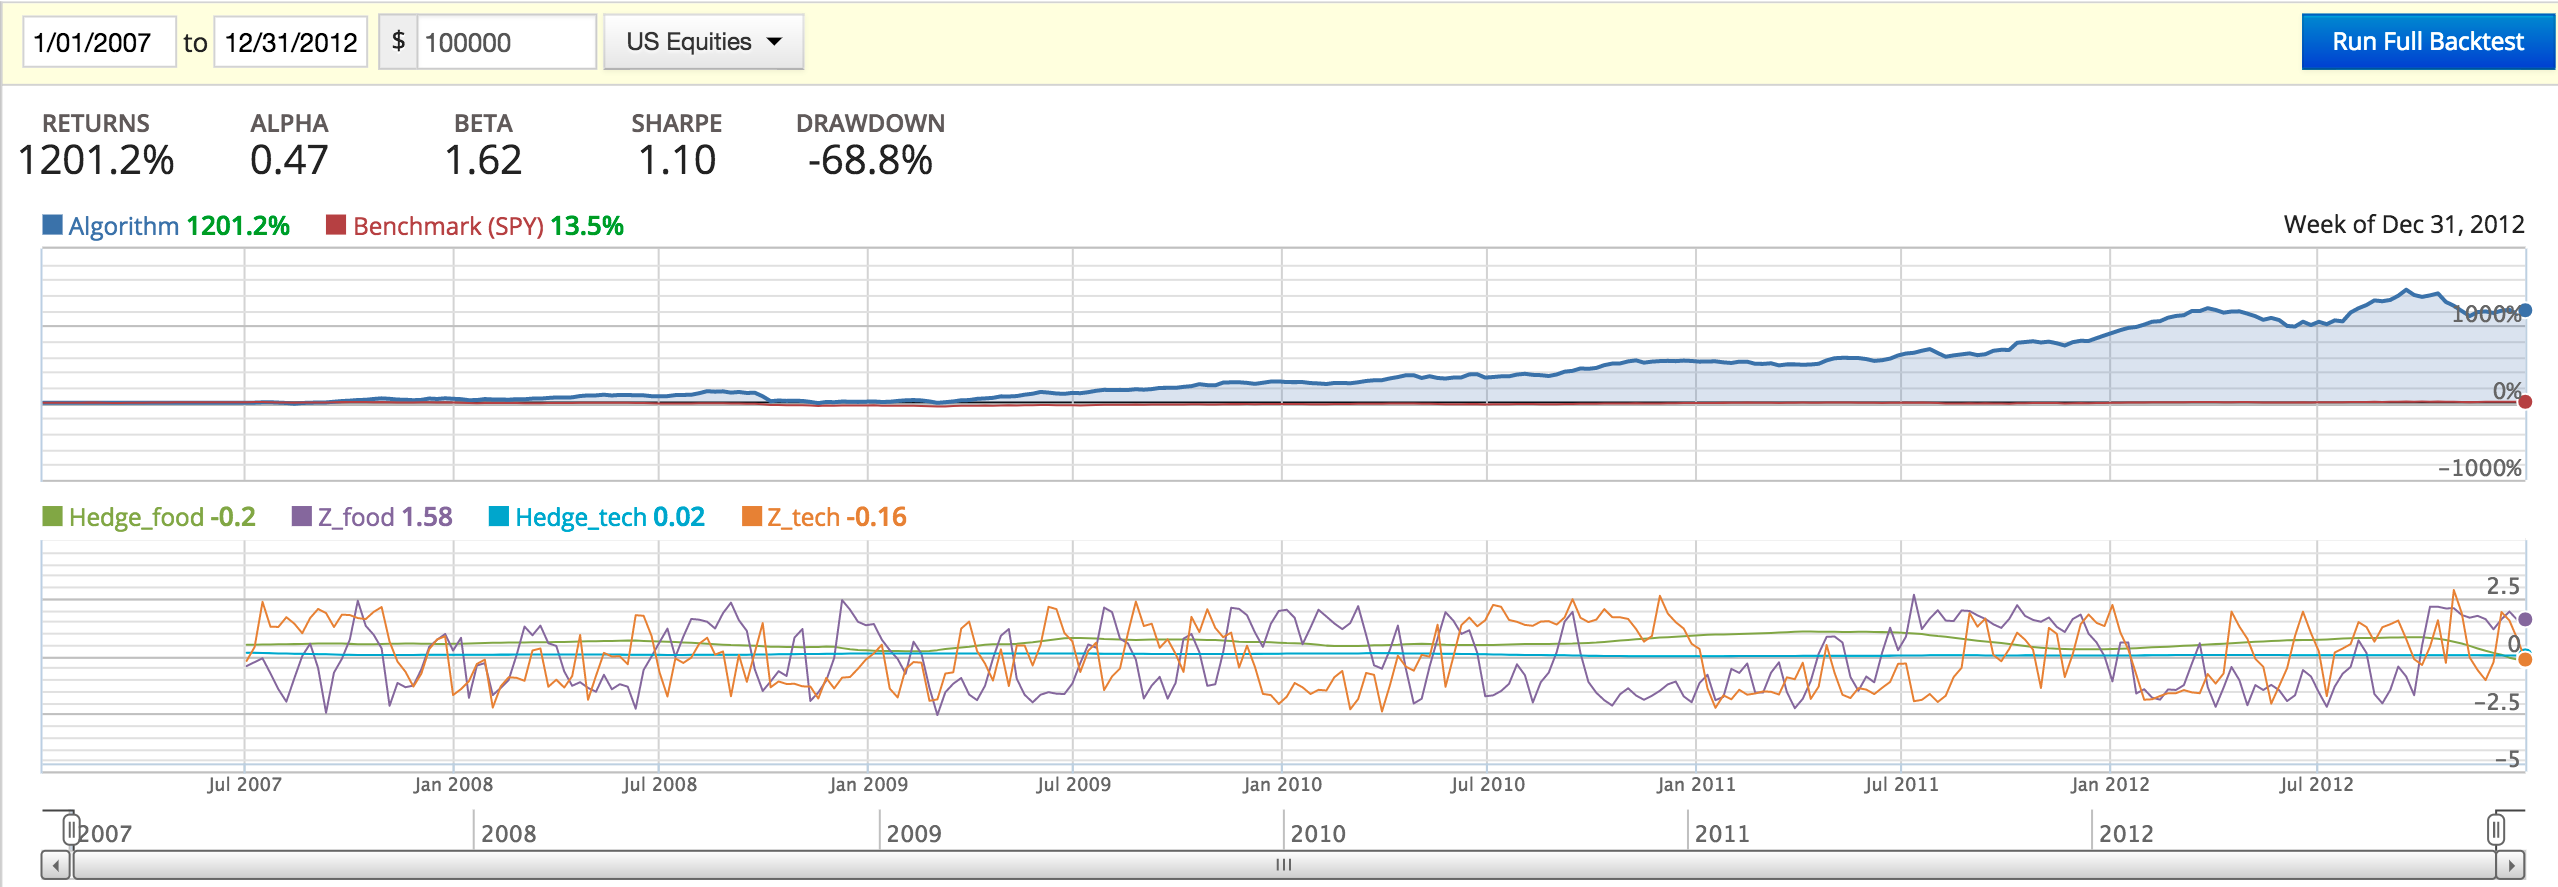
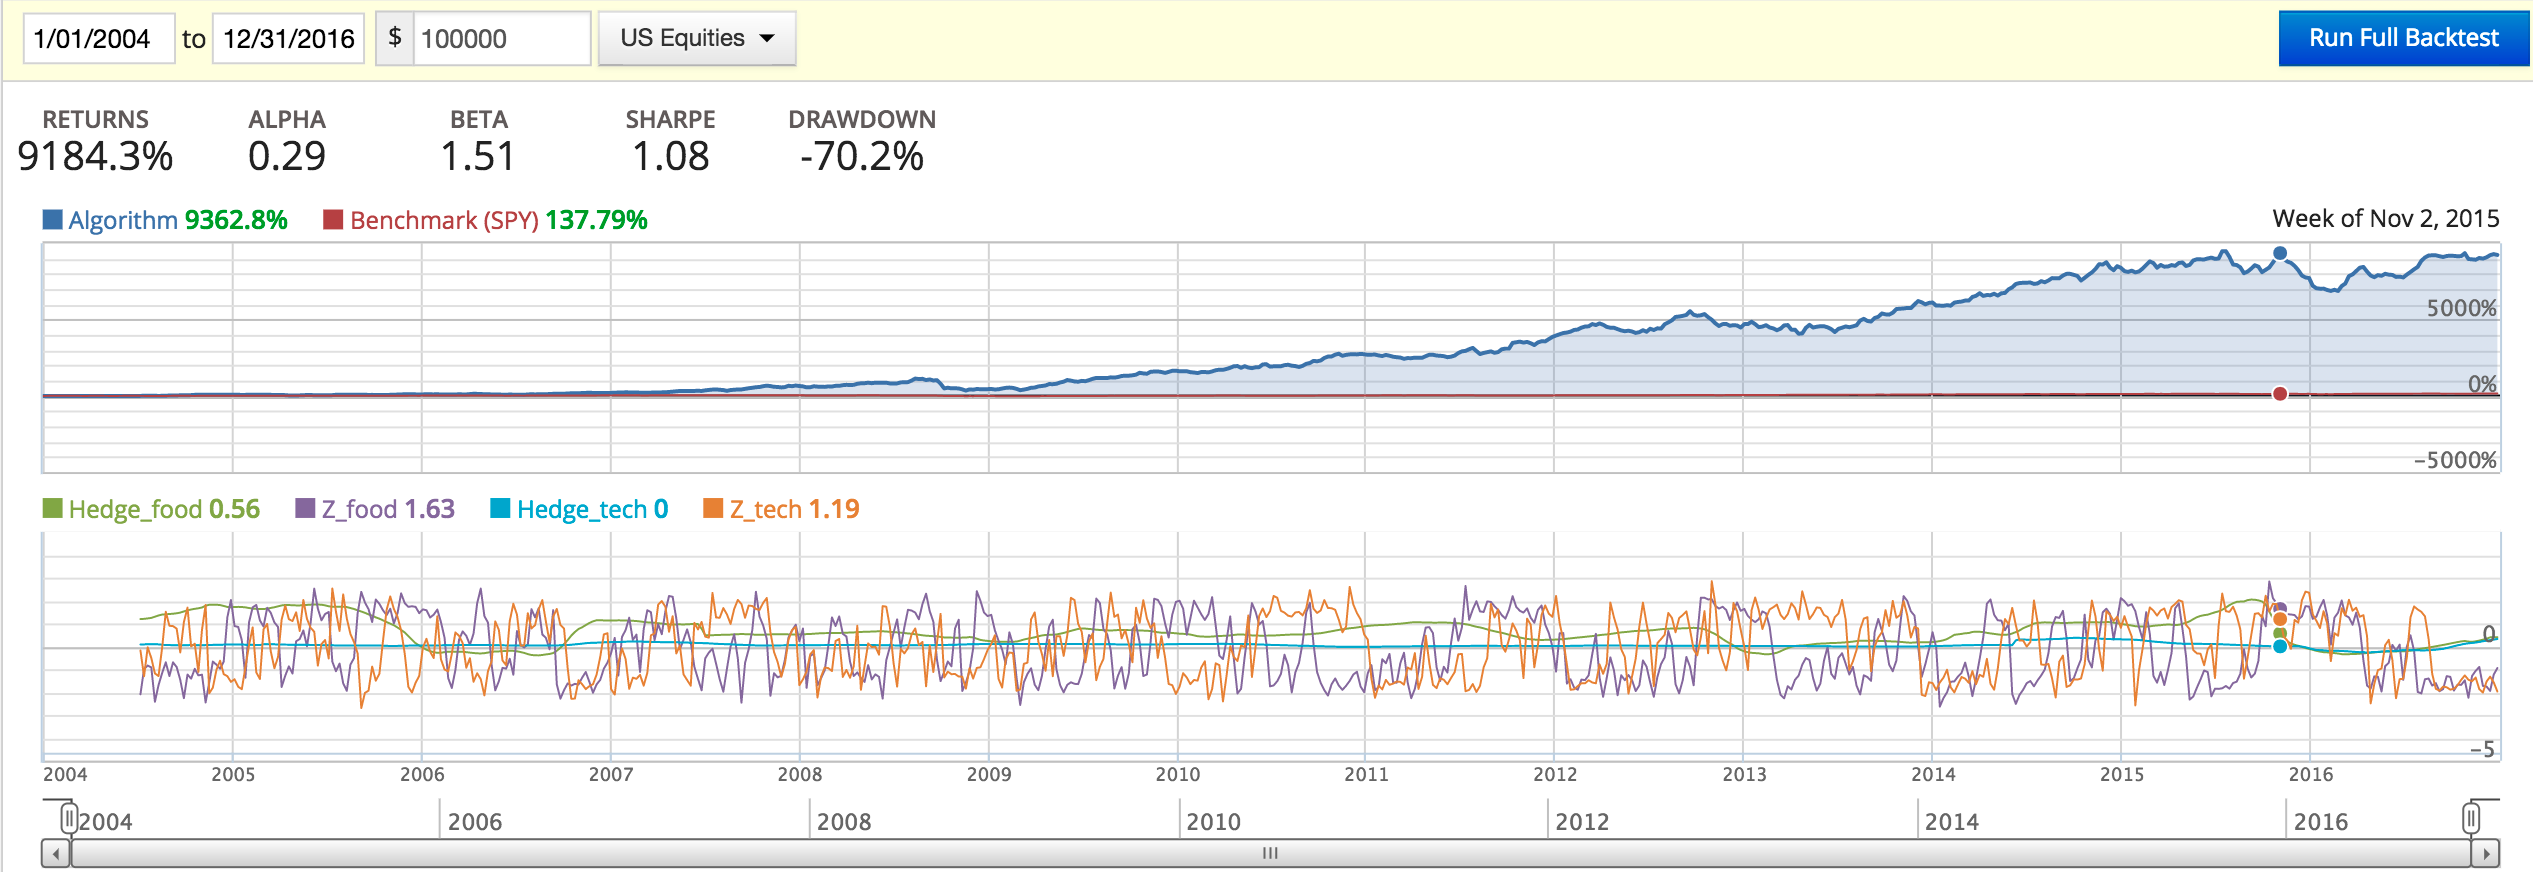
Updated README to reflect new results/tests.

diff --git a/README.md b/README.md
@@ -1,5 +1,5 @@
 # Quantopian_Pairs_Trader
-This is my implementation of a Pairs Trading Algorithm on the algorithmic trading research/competition platform [Quantopian](https://www.quantopian.com/home) so I can dive deeper and learn more about [Pairs Trading](http://www.investopedia.com/university/guide-pairs-trading/) and implementing trading algorithms. Some tests/measures I'm currently learning about and looking at using include:
+This is my implementation of a Pairs Trading Algorithm on the algorithmic trading research/competition platform [Quantopian](https://www.quantopian.com/home) so I can dive deeper and learn more about [Pairs Trading](http://www.investopedia.com/university/guide-pairs-trading/) and implementing trading algorithms. Some tests/measures I'm currently learning about and using include:
 
 * Kwiatkowski-Phillips-Schmidt-Shin ([KPSS](https://en.wikipedia.org/wiki/KPSS_test)) stationarity test
 * Augmented Dickey–Fuller ([ADF](https://en.wikipedia.org/wiki/Augmented_Dickey%E2%80%93Fuller_test)) unit root test
@@ -9,20 +9,13 @@ This is my implementation of a Pairs Trading Algorithm on the algorithmic tradin
 * [Softmax function](https://en.wikipedia.org/wiki/Softmax_function) for calculating percent of each security on open order
 
 ## Current Results
-Currently, my implementation will be able to run on arbitrary amount of possible pairs that a user could provide. However, for current testing purposes, I have only been testing on two possible pairs (and hardcoded some logic that assumes that such as how I record values on the graph). Those two pairs are Microsoft ([MSFT](http://www.google.ca/finance?q=MSFT&ei=FD-ZWcHDKNHejAHt4p-IBA)) + Apple ([AAPL](http://www.google.ca/finance?q=AAPL&ei=-T6ZWaGkKIaO2AbyxbCIBQ)), and McDonalds ([MCD](http://www.google.ca/finance?q=MCD&ei=LT-ZWbHmLIaO2AbyxbCIBQ)) + Yum! Brands ([YUM](http://www.google.ca/finance?q=YUM&ei=PT-ZWcnHCsK42Aac35GoCQ)) which owns chains like KFC, Pizza Hut, and Taco Bell. The former can be seen in the lower graph with the label "_tech" and the latter with the label "_food" with corresponding Z and hedge ratio values.
+Currently, my implementation will be able to run on arbitrary amount of possible pairs that a user could provide. However, for current testing purposes, I have only been testing on two possible pairs (and hardcoded some logic that assumes that such as how I record values on the graph). Those two pairs are Microsoft ([MSFT](http://www.google.ca/finance?q=MSFT&ei=FD-ZWcHDKNHejAHt4p-IBA)) + Apple ([AAPL](http://www.google.ca/finance?q=AAPL&ei=-T6ZWaGkKIaO2AbyxbCIBQ)), and McDonalds ([MCD](http://www.google.ca/finance?q=MCD&ei=LT-ZWbHmLIaO2AbyxbCIBQ)) + Yum! Brands ([YUM](http://www.google.ca/finance?q=YUM&ei=PT-ZWcnHCsK42Aac35GoCQ)) which owns chains like KFC, Pizza Hut, and Taco Bell. The former can be seen in the lower graph with the label "\_tech" and the latter with the label "\_food" with corresponding Z and hedge ratio values.
 
-Since I've been fascinated with the 2008 Recession, I wanted to see how my algorithm did during the year leading up to and several years following it. So I had it run for 6 years from January 1, 2007 to December 31, 2012. However, I'm planning on seeing how extensible my algorithm is to different time periods and different combination of pairs. From the few tests I have done so far, this seems true and I haven't "overfitted" my algorithm by making it only work in a specific instance.
+I had my algorithm run for 13 years from January 1, 2004 to December 31, 2016. However, I'm planning on seeing how extensible my algorithm is to different time periods and different combination of pairs. From the few tests I have done so far, this seems true and I haven't "overfitted" my algorithm by making it only work in a specific instance.
 
-As my current results stand, I did 1,187.7% better than the defualt Quantopian benchmark, the SPDR S&P 500 Trust ETF ([SPY](http://www.google.ca/finance?q=SPY&ei=7z6ZWYiaLo2gjAGFs4OYAg)) with a 1201.2% return:
+As my current results stand, I did **9,159.05%** better than the defualt Quantopian benchmark, the SPDR S&P 500 Trust ETF ([SPY](http://www.google.ca/finance?q=SPY&ei=7z6ZWYiaLo2gjAGFs4OYAg)) (25.25%), and **9,092.89%** better than the DOW (91.41%), with a **9,184.3%%** return.
 
-* Week of December 31, 2007: 52.22%
-* Week of December 28, 2008: 15.07%
-* Week of December 28, 2009: 277.82%
-* Week of December 27, 2010: 542.92%
-* Week of December 26, 2011: 874.62%
-* Week of December 31, 2012: 1201.2%
-
-## Issues
+## Issues/Next Steps
 * Quantopian has deprecated version of Statsmodels python library which doesn't have the KPSS test available. I'll need to manually add it myself.
 * Haven't looked at using Kalman filters for determining hedge ratios. Not sure if I need to or if the way I did it sufficient.
 * Need to look into how Quantopian's `order_target_percent` function works when I have several different pairs and not one or two (e.g. will the first opening order take up my entire portfolio?) 
